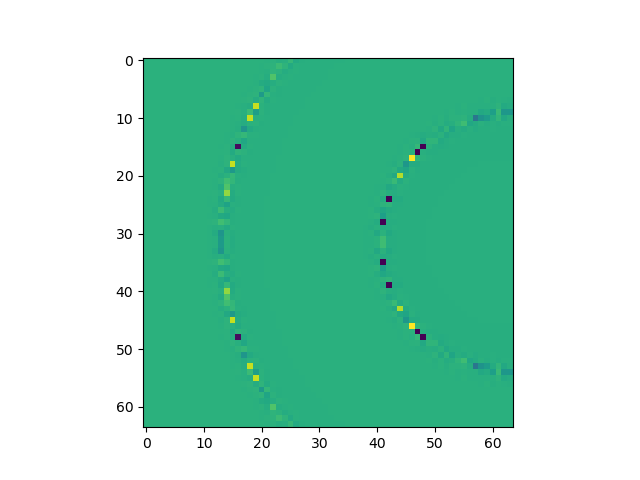
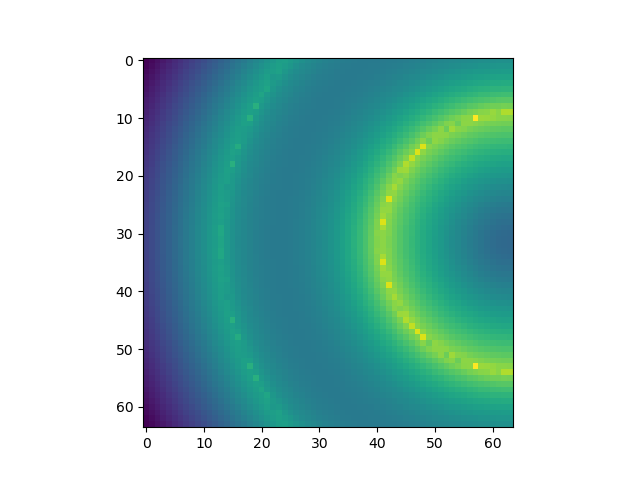
unit test waveform_matching.py is doing some black magic (aka its working. need to figure out why its working and not the main script. pushing before i break it

diff --git a/Beamformer.py b/Beamformer.py
@@ -19,11 +19,15 @@ class Beamformer:
         self.sceneDimY = kwargs.get('sceneDimY', np.array([-.15, .15]))
         self.sceneDimZ = kwargs.get('sceneDimZ', np.array([-.15, .15]))
 
+        self.RP = kwargs.get('RP', None)
+
         self.nPix = kwargs.get('nPix', np.array([128, 128, 64]))
 
         self.xVect = np.linspace(self.sceneDimX[0], self.sceneDimX[1], self.nPix[0])
         self.yVect = np.linspace(self.sceneDimY[0], self.sceneDimY[1], self.nPix[1])
         self.zVect = np.linspace(self.sceneDimZ[0], self.sceneDimZ[1], self.nPix[2])
+
+        #self.window = self.windowIndex(self.RP)
 
         self.dim = kwargs.get('dim', 3)
 
@@ -48,13 +52,16 @@ class Beamformer:
             self.pixPos = torch.from_numpy(pixPos).cuda()
             self.pixPos.requires_grad = True
 
+
+
     def windowIndex(self, RP, ind):
-        windowLeft = torch.linspace(0, ind, ind)
-        windowRight = torch.linspace(ind, int(RP.nSamples-1), int(RP.nSamples-ind))
+        windowLeft = torch.linspace(0, 1, ind)
+        windowRight = torch.linspace(1, 0, int(RP.nSamples - ind))
         window = torch.cat((windowLeft, windowRight), 0)
         return window
 
-    # Need to rewrite this guy ok.
+        # Need to rewrite this guy ok.
+
     def softBeamformer(self, RP):
         posVecList = []
         for i in range(0, RP.numProj):
@@ -74,11 +81,11 @@ class Beamformer:
 
         for i in range(0, RP.numProj):
             for j in range(0, self.numPix):
-                t = torch.sqrt(torch.sum((posVec[i] - self.pixPos[j, :])**2) + torch.tensor(RP.zs[0])**2)
-                tof = (2*t)/(RP.c) * RP.Fs
+                t = torch.sqrt(torch.sum((posVec[i] - self.pixPos[j, :]) ** 2) + torch.tensor(RP.zs[0]) ** 2)
+                tof = (2 * t) / (RP.c) * RP.Fs
                 w = self.windowIndex(RP, int(tof))
-                realIntensity = torch.sum(wfmData[i, :, 0]*w)
-                imagIntensity = torch.sum(wfmData[i, :, 1]*w)
+                realIntensity = torch.sum(wfmData[i, :, 0] * w)
+                imagIntensity = torch.sum(wfmData[i, :, 1] * w)
 
                 intensityReal.append(realIntensity)
                 intensityImag.append(imagIntensity)
@@ -94,10 +101,58 @@ class Beamformer:
         realSum = torch.sum(pixGridRealTensor, 0)
         imagSum = torch.sum(pixGridImagTensor, 0)
 
-
         self.scene = Complex(real=realSum, imag=imagSum)
         return self.scene
 
+    """
+    def windowIndex(self, RP):
+        full_window = []
+        for ind in range(0, RP.nSamples):
+            windowLeft = torch.linspace(0, 1, ind)
+            windowRight = torch.linspace(1, 0, int(RP.nSamples-ind))
+            window = torch.cat((windowLeft, windowRight), 0)
+            print(window)
+            full_window.append(window)
+
+        return torch.stack(full_window)
+
+    # Need to rewrite this guy ok.
+    def softBeamformer(self, RP):
+        #print(self.window.shape)
+        #print(self.window)
+        posVecList = []
+        for i in range(0, RP.numProj):
+            posVecList.append(RP.projDataArray[i].projPos)
+        posVec = torch.stack(posVecList)
+
+        projWfmList = []
+        for i in range(0, RP.numProj):
+            projWfmList.append(RP.projDataArray[i].wfmRC.vector())
+        wfmData = torch.stack(projWfmList)
+
+        intensityReal = []
+        intensityImag = []
+
+        pixGridReal = []
+        pixGridImag = []
+
+        x = torch.ones(self.numPix, 2)
+        z = (torch.ones(self.numPix) * torch.tensor(RP.zs[0])) ** 2
+
+        for i in range(0, RP.numProj):
+            posVec_pix = x * posVec[i, :]
+            sum = torch.sum((self.pixPos - posVec_pix) ** 2, 1) + z
+            tofs = 2 * torch.sqrt(sum)
+
+            tof_ind = int((tofs / torch.tensor(RP.c)) * torch.tensor(RP.Fs))
+
+
+
+
+
+        #self.scene = Complex(real=, imag=)
+        #return self.scene
+    """
     def beamformTest(self, RP):
         numProj = len(RP.projDataArray)
         posVecList = []

diff --git a/main.py b/main.py
@@ -39,12 +39,12 @@ if __name__ == '__main__':
         RP_GT = RenderParameters()
         RP_GT.generateTransmitSignal()
         RP_GT.defineProjectorPos(thetaStart=0, thetaStop=0, thetaStep=1, rStart=2, rStop=2, zStart=.3, zStop=.3)
-        ps_GT = torch.tensor([[-1.0, -1.0], [-1.0, 1.0], [1.0, -1.0], [1.0, 1.0]], requires_grad=False).cuda()
+        ps_GT = torch.tensor([[-1.0, -1.0], [1.0, 1.0]], requires_grad=False).cuda()
         simulateSASWaveformsPointSource(RP_GT, ps_GT)
         print(RP_GT.numProj)
 
         # Beamformer to create images from projector wavef orms
-        BF = Beamformer(sceneDimX=[-2, 2], sceneDimY=[-2, 2], sceneDimZ=[0, 0], nPix=[64, 64, 1], dim=2)
+        BF = Beamformer(RP=RP_GT, sceneDimX=[-2, 2], sceneDimY=[-2, 2], sceneDimZ=[0, 0], nPix=[64, 64, 1], dim=2)
         x_vals = torch.unique(BF.pixPos[:, 0]).numel()
         y_vals = torch.unique(BF.pixPos[:, 1]).numel()
         GT = BF.softBeamformer(RP_GT).abs()
@@ -52,7 +52,7 @@ if __name__ == '__main__':
         plt.imshow(GT_XY.detach().cpu().numpy())
         plt.savefig("pics1/GT.png")
 
-        ps_EST = torch.tensor([[-.9, -.9], [-.9, .9], [.9, -.9], [.9, .9]], requires_grad=False).cuda()
+        ps_EST = torch.tensor([[.1, .1], [-.1, -.1]], requires_grad=False).cuda()
 
         vis = visdom.Visdom()
         loss_window = vis.line(
@@ -73,7 +73,8 @@ if __name__ == '__main__':
 
         est_xy = est.view(x_vals, y_vals)
         plt.imshow(est_xy.detach().cpu().numpy())
-        plt.pause(.05)
+        plt.savefig("pics1/est" + str(i) + ".png")
+        #plt.pause(.05)
 
         loss = torch.sum(torch.sqrt((GT - est)**2))
 
